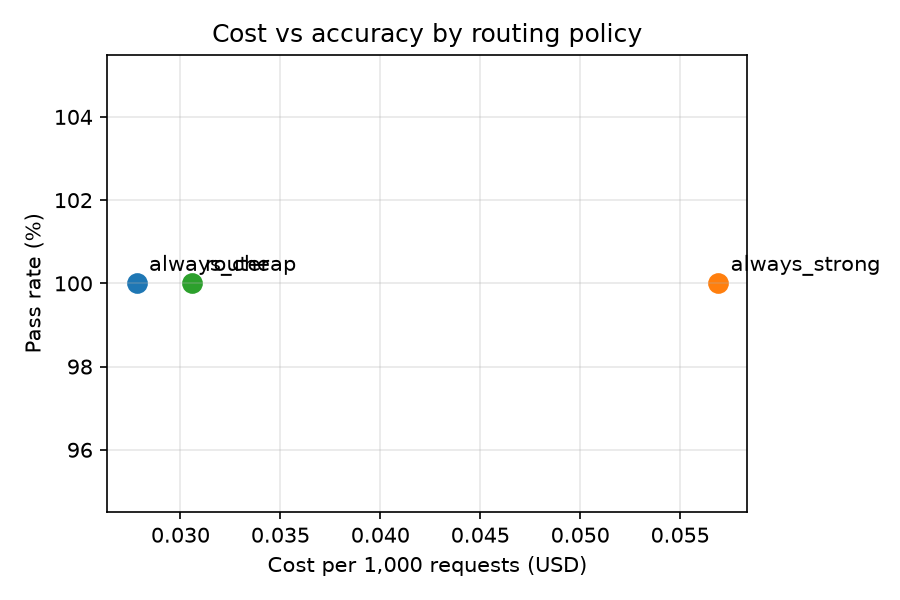
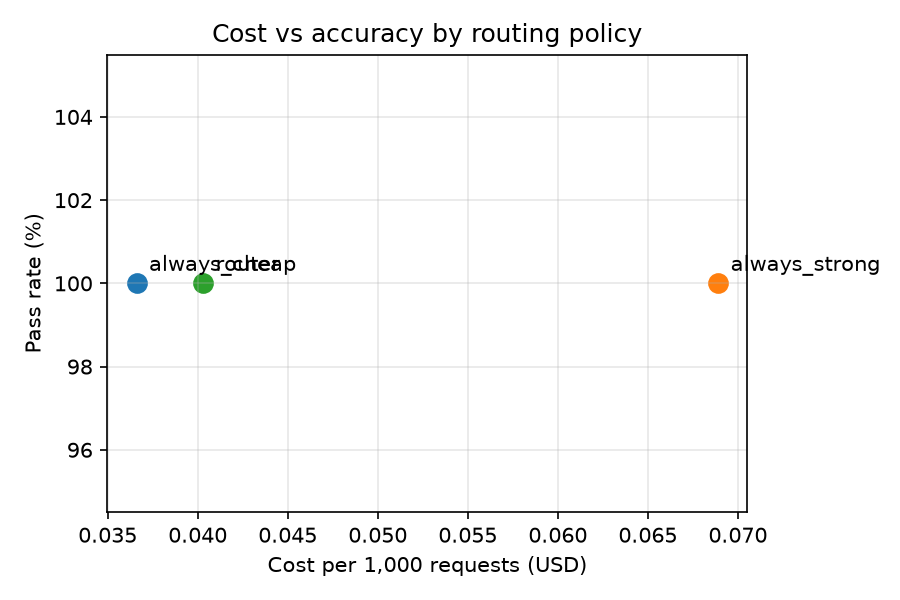
describe what changed

Changed region(s): [[0.28, 0.87, 0.8711, 0.93], [0.0933, 0.87, 0.2489, 0.93], [0.1867, 0.42, 0.3111, 0.51]]

diff --git a/app/main.py b/app/main.py
@@ -1,10 +1,10 @@
-import time
 import secrets
+import time
 from contextlib import asynccontextmanager
 
 from fastapi import Depends, FastAPI, Header, HTTPException
 
-from app.config import USE_MOCK, GATEWAY_API_KEY
+from app.config import GATEWAY_API_KEY, USE_MOCK
 from app.db import init_db, log_request
 from app.pricing import calculate_cost
 from app.providers.groq_provider import ProviderError, call_groq
@@ -22,17 +22,19 @@ async def lifespan(app: FastAPI):
 app = FastAPI(title="LLM Router Gateway", lifespan=lifespan)
 
 
+def require_key(authorization: str = Header(default="")):
+    if not GATEWAY_API_KEY:
+        return  # no key set: open (local development only)
+    token = authorization.removeprefix("Bearer ").strip()
+    if not secrets.compare_digest(token, GATEWAY_API_KEY):
+        raise HTTPException(status_code=401, detail="Invalid or missing API key")
+
+
 async def call_provider(model: str, prompt: str):
     if USE_MOCK:
         return await call_mock(model, prompt)
     return await call_groq(model, prompt)
 
-def require_key(authorization: str = Header(default="")):
-    if not GATEWAY_API_KEY:
-        return  # no key configured: open (local development only)
-    token = authorization.removeprefix("Bearer ").strip()
-    if not secrets.compare_digest(token, GATEWAY_API_KEY):
-        raise HTTPException(status_code=401, detail="Invalid or missing API key")
 
 @app.post("/v1/chat", response_model=ChatResponse, dependencies=[Depends(require_key)])
 async def chat(req: ChatRequest):

diff --git a/app/config.py b/app/config.py
@@ -4,12 +4,13 @@ from dotenv import load_dotenv
 load_dotenv()
 
 GROQ_API_KEY = os.getenv("GROQ_API_KEY", "")
-CHEAP_MODEL = os.getenv("CHEAP_MODEL", "llama-3.1-8b-instant")
-STRONG_MODEL = os.getenv("STRONG_MODEL", "llama-3.3-70b-versatile")
+CHEAP_MODEL = os.getenv("CHEAP_MODEL", "openai/gpt-oss-20b")
+STRONG_MODEL = os.getenv("STRONG_MODEL", "openai/gpt-oss-120b")
 GROQ_BASE_URL = "https://api.groq.com/openai/v1"
 
 USE_MOCK = os.getenv("USE_MOCK", "false").lower() == "true"
-MAX_RETRIES = 3            # retries after the first attempt
-REQUEST_TIMEOUT = 30.0     # seconds
-BACKOFF_BASE = 1.0         # waits 1s, 2s, 4s between retries
+MAX_RETRIES = 3
+REQUEST_TIMEOUT = 30.0
+BACKOFF_BASE = 1.0
+
 GATEWAY_API_KEY = os.getenv("GATEWAY_API_KEY", "")

diff --git a/tests/test_gateway.py b/tests/test_gateway.py
@@ -4,13 +4,15 @@ from app import main
 
 
 def test_chat_returns_answer(monkeypatch):
-    monkeypatch.setattr(main, "USE_MOCK", True)  # never hit the real API in tests
+    monkeypatch.setattr(main, "USE_MOCK", True)
+    monkeypatch.setattr(main, "GATEWAY_API_KEY", "")
     with TestClient(main.app) as client:
         r = client.post("/v1/chat", json={"prompt": "What is 2+2?", "policy": "always_cheap"})
         assert r.status_code == 200
         body = r.json()
         assert "answer" in body
         assert body["route_reason"] == "policy=always_cheap"
+
 
 def test_rejects_wrong_key(monkeypatch):
     monkeypatch.setattr(main, "USE_MOCK", True)
